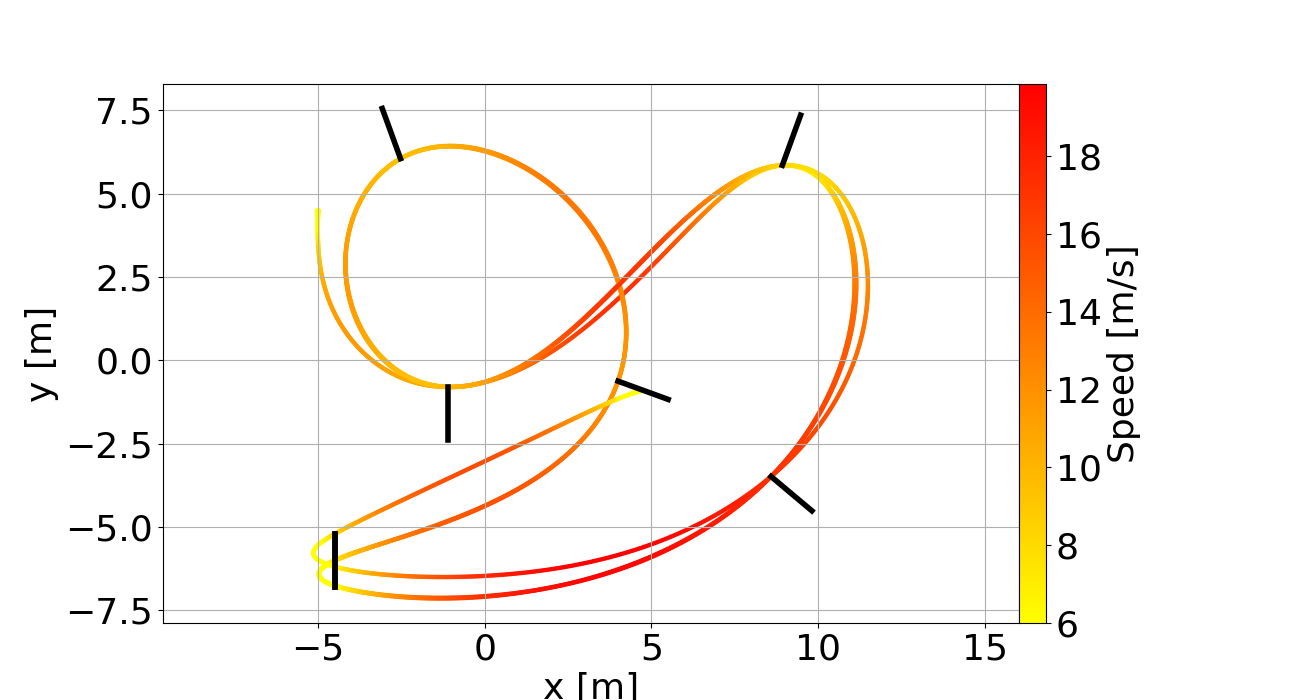
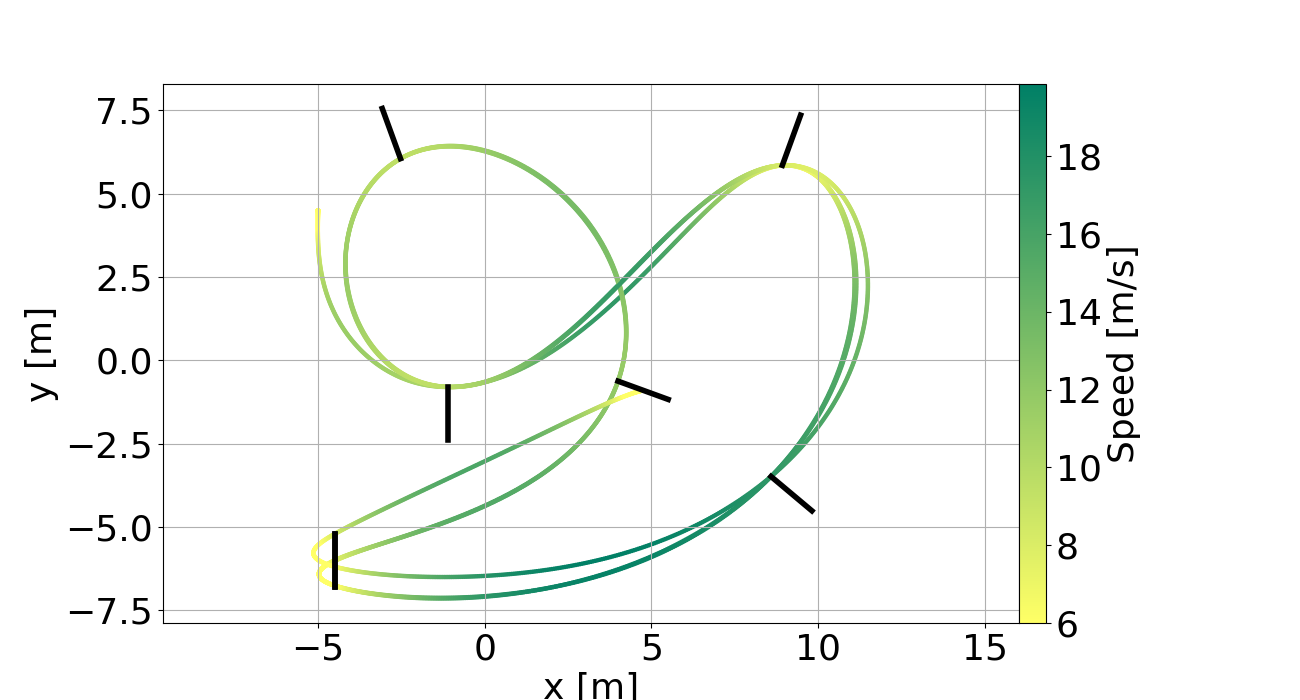
Update README
Update README

Add new images

Update images

add images

diff --git a/scripts/plots/plot_aos_togt_traj.py b/scripts/plots/plot_aos_togt_traj.py
@@ -64,7 +64,7 @@ b = 0.0 * (1-vt) + 0.0 * vt
 rgb = np.array([r, g, b]).T
 
 plt.scatter(ps[:, 0], ps[:, 1], s=5,
-            c=vt, cmap=plt.cm.autumn.reversed())
+            c=vt, cmap=plt.cm.summer.reversed())
 plt.colorbar(pad=0.0).ax.set_ylabel('Speed [m/s]')
 
 # Plot gates

diff --git a/README.md b/README.md
@@ -60,7 +60,7 @@ python3 plot_togt_refined_traj.py
 
 ## Visualize the AOS trajectory for waypoint flight
 
-Another example is the Split-S track provided in [this](https://www.science.org/doi/full/10.1126/scirobotics.abh1221) paper. It consists of 19 waypoints in total with a tolerance of 0.3 m for each point. Below is our generated trajectory. The AOS stands for automatic optimal synthesis, a novel framework to address time-optimal planning problem. It is part of the result from the second reference above. It takes around 6 seconds to solve the minimum-time trajectory that originally requires ~50 minutes in previous methods. The resulting lap time is only 1~2% longer than the optimal solution. We will provide in-depth analytical analysis in the paper about its distance-insensitive nature. The resulting lap time is `17.93` s where the true optimal is `17.56` s.
+Another example is the Split-S track provided in [this](https://www.science.org/doi/full/10.1126/scirobotics.abh1221) paper. It consists of 19 waypoints in total with a tolerance of 0.3 m for each point. Below is our generated trajectory. The AOS stands for automatic optimal synthesis, a novel framework to address time-optimal planning problem. It is part of the result from the second reference above. It takes around 6 s to solve the minimum-time trajectory that originally requires \~50 minutes in previous methods. The resulting lap time is only 1\~2% longer than the optimal solution. We will provide in-depth analytical analysis in the paper about its distance-insensitive nature. The resulting lap time is `17.93` s while the true optimal is `17.56` s.
 
 
 ```
